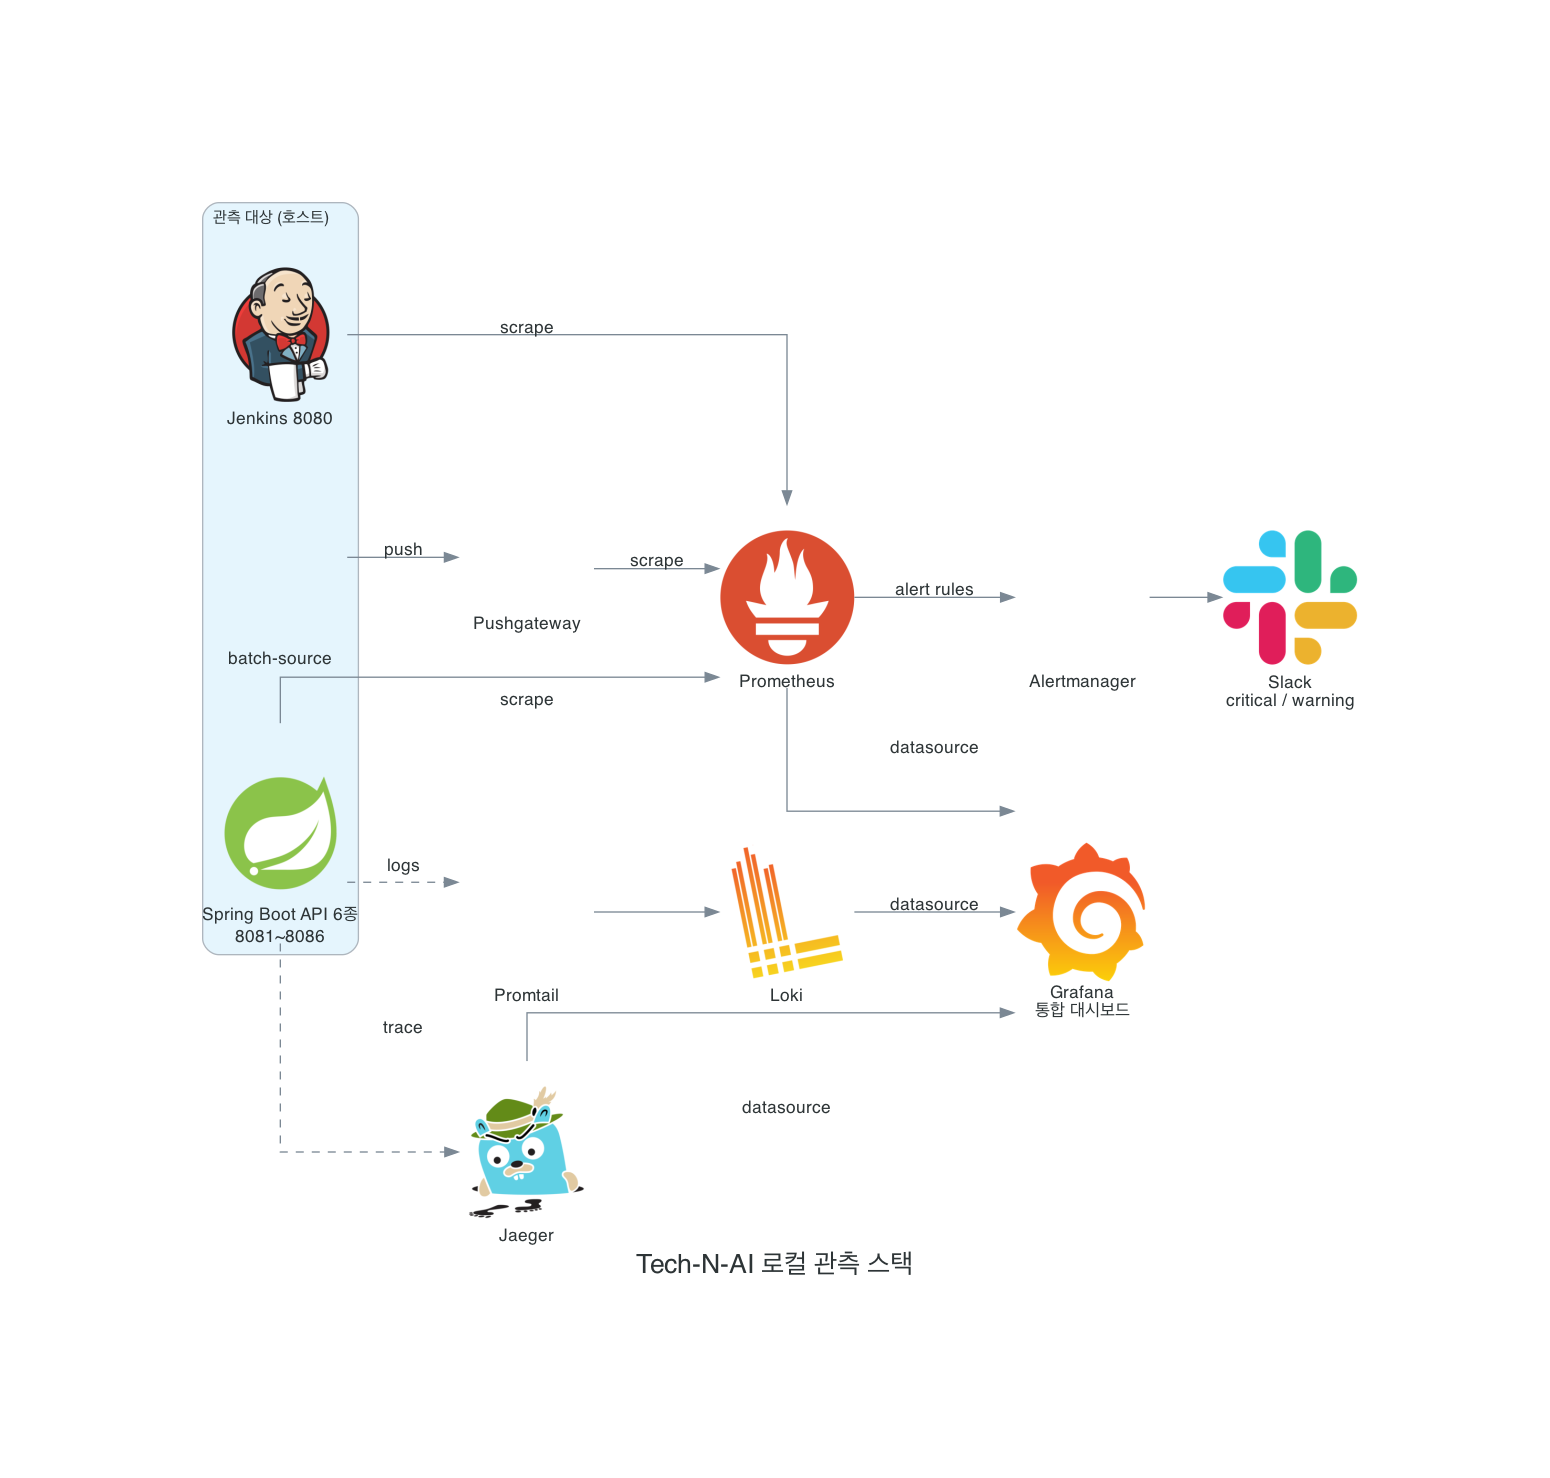
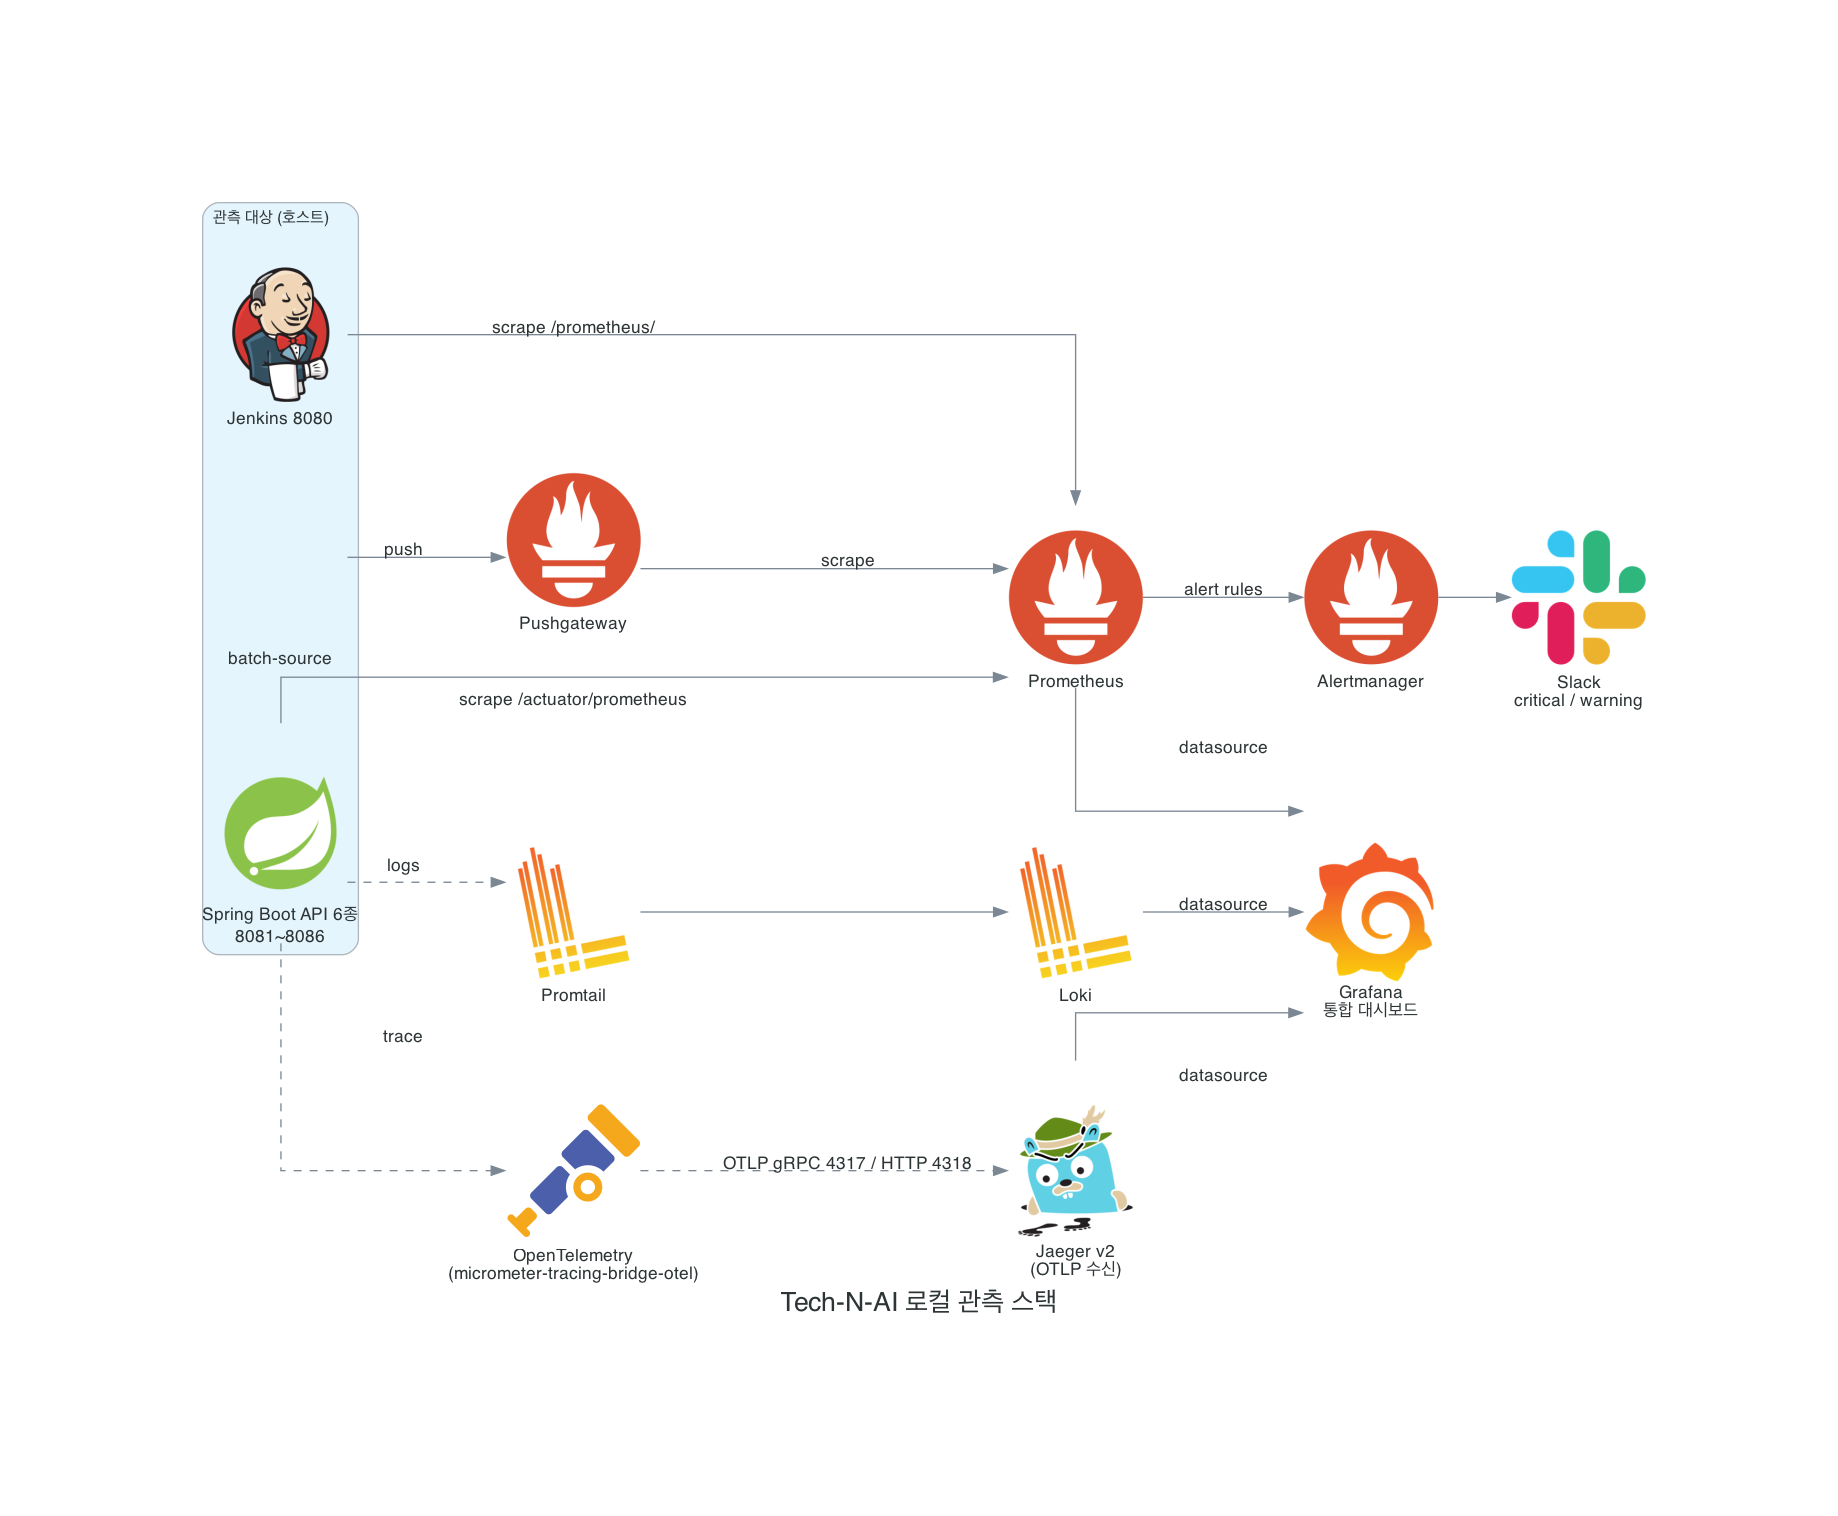
docs : [main] 관측 스택 다이어그램에 OpenTelemetry(OTLP) 트레이스 경로·로고 정리 반영
- observability_stack.py: 트레이스 경로를 OpenTelemetry → Jaeger v2(OTLP)로 바꾸고
  scrape 엔드포인트(/actuator/prometheus, /prometheus/) 라벨 표기
- observability_stack.py: 독립 로고 없는 Pushgateway·Alertmanager·Promtail을
  상위 제품(Prometheus·Loki) 로고로 표시하도록 원칙 정리, OTel 공식 로고 추가
- README: 세 신호 중 트레이스만 OTLP를 쓰는 이유와 신호별 수집 경로 표 추가
- observability_stack.png 재생성, OTel 아이콘 에셋 추가

diff --git a/docs/monitoring/observability_stack.py b/docs/monitoring/observability_stack.py
@@ -3,9 +3,12 @@
 생성:  python observability_stack.py  ->  observability_stack.png
 사전:  pip install diagrams  +  시스템에 Graphviz(`dot`) 설치
 
-전용 로고 노드가 있는 컴포넌트(Prometheus·Grafana·Loki·Jaeger·Jenkins)는 로고로,
-전용 노드가 없는 컴포넌트(Pushgateway·Alertmanager·Promtail·batch-source)는
-로고 없는 Blank 노드에 라벨만 달아 표현한다.
+로고 사용 원칙:
+- 전용 공식 로고가 있는 컴포넌트(Prometheus·Grafana·Loki·Jaeger·Jenkins·Slack)는 해당 로고.
+- OpenTelemetry는 diagrams 내장 노드가 없어 공식 로고 PNG를 Custom 노드로 사용.
+- Pushgateway·Alertmanager는 독립 로고가 없는 Prometheus 컴포넌트라 Prometheus 로고를 공유한다.
+- Promtail은 독립 로고가 없는 Loki 컴포넌트라 Loki 로고를 공유한다.
+- batch-source는 제품이 아니므로 로고 없는 Blank 노드로 둔다.
 """
 from diagrams import Diagram, Cluster, Edge
 from diagrams.onprem.monitoring import Prometheus, Grafana
@@ -15,6 +18,10 @@ from diagrams.onprem.ci import Jenkins
 from diagrams.programming.framework import Spring
 from diagrams.generic.blank import Blank
 from diagrams.saas.chat import Slack
+from diagrams.custom import Custom
+
+# 공식 OpenTelemetry 로고 (CNCF artwork: projects/opentelemetry/icon/color)
+OTEL_LOGO = "assets/opentelemetry-icon-color.png"
 
 graph_attr = {"fontsize": "20", "bgcolor": "white"}
 
@@ -32,23 +39,25 @@ with Diagram(
 
     # 메트릭 경로
     prom = Prometheus("Prometheus")
-    pushgw = Blank("Pushgateway")
-    alertmgr = Blank("Alertmanager")
+    pushgw = Prometheus("Pushgateway")        # 독립 로고 없음 → Prometheus 로고 공유
+    alertmgr = Prometheus("Alertmanager")     # 독립 로고 없음 → Prometheus 로고 공유
     slack = Slack("Slack\ncritical / warning")
 
-    apis >> Edge(label="scrape") >> prom
-    jenkins >> Edge(label="scrape") >> prom
+    apis >> Edge(label="scrape /actuator/prometheus") >> prom
+    jenkins >> Edge(label="scrape /prometheus/") >> prom
     batch >> Edge(label="push") >> pushgw >> Edge(label="scrape") >> prom
     prom >> Edge(label="alert rules") >> alertmgr >> slack
 
     # 로그 경로
-    promtail = Blank("Promtail")
+    promtail = Loki("Promtail")               # 독립 로고 없음 → Loki 로고 공유
     loki = Loki("Loki")
     apis >> Edge(label="logs", style="dashed") >> promtail >> loki
 
-    # 트레이스 경로
-    jaeger = Jaeger("Jaeger")
-    apis >> Edge(label="trace", style="dashed") >> jaeger
+    # 트레이스 경로 (OpenTelemetry / OTLP)
+    otel = Custom("OpenTelemetry\n(micrometer-tracing-bridge-otel)", OTEL_LOGO)
+    jaeger = Jaeger("Jaeger v2\n(OTLP 수신)")
+    apis >> Edge(label="trace", style="dashed") >> otel
+    otel >> Edge(label="OTLP gRPC 4317 / HTTP 4318", style="dashed") >> jaeger
 
     # Grafana 통합 (데이터소스)
     grafana = Grafana("Grafana\n통합 대시보드")

diff --git a/monitoring/README.md b/monitoring/README.md
@@ -97,6 +97,30 @@ Jaeger 트레이스에서 같은 `traceId`의 로그로 바로 넘어갈 수 있
 > 가져와(Import) `/var/lib/grafana/dashboards`에 두면 자동 인식된다
 > (provider 설정: [`grafana/provisioning/dashboards/dashboards.yml`](grafana/provisioning/dashboards/dashboards.yml)).
 
+### OpenTelemetry는 어디에 쓰나
+
+세 신호 중 **트레이스에만 OpenTelemetry(OTLP)를 쓴다.** 메트릭은 Prometheus, 로그는 Loki의
+기본 경로를 따른다. 즉 "관측을 OTel 하나로 통일"한 게 아니라, 신호마다 가장 잘 맞는 경로를 골랐다.
+
+| 신호 | 앱 쪽 계측·전송 | 수집 | OTel |
+|---|---|---|---|
+| **트레이스** | `io.micrometer:micrometer-tracing-bridge-otel` + `io.opentelemetry:opentelemetry-exporter-otlp` (+ `spring-boot-starter-opentelemetry`), OTLP gRPC `4317` / HTTP `4318`로 전송 | Jaeger v2 — OpenTelemetry Collector 기반 구성([`jaeger/jaeger-config.yml`](jaeger/jaeger-config.yml)의 `receivers.otlp` → `pipelines.traces`) | **사용** |
+| **메트릭** | `io.micrometer:micrometer-registry-prometheus`로 `/actuator/prometheus` 노출 | Prometheus가 scrape | 미사용 |
+| **로그** | JSON 파일에 `traceId`/`spanId` 포함 | Promtail → Loki | 미사용 (단 trace context는 전파) |
+
+메트릭과 로그를 OTel 경로(OTLP 내보내기 / OTel Collector)로 보내지 않은 이유:
+
+- **Jenkins는 OTLP를 못 낸다.** Prometheus 포맷만 `/prometheus/`로 노출하므로 긁어오는(scrape) 방식이 강제된다.
+- **알림 규칙이 Prometheus에 묶여 있다.** [`prometheus/alert-rules.yml`](prometheus/alert-rules.yml)의 식이
+  `up{job="jenkins"}`(타깃 생사), `spring_batch_job_seconds_count`, `jvm_memory_used_bytes` 같은
+  Prometheus 메트릭과 PromQL에 의존한다. 타깃이 살아 있는지 알려주는 `up`은 scrape(pull) 모델에서만 공짜로 생긴다.
+- **batch-source 메트릭은 Pushgateway**(Prometheus 생태계)로 들어온다.
+- 로그는 Loki로 보내되, Promtail이 `traceId`/`spanId`를 structured metadata로 남겨
+  Grafana에서 트레이스↔로그로 바로 넘어갈 수 있게 했다(OTel의 상관관계 이점은 그대로 챙긴다).
+
+> 이 로컬 스택은 신호별 직접 경로를 쓰고 **중앙 OpenTelemetry Collector는 두지 않는다.**
+> 운영(AWS)은 별개로 CloudWatch + X-Ray + Amazon Managed Grafana다(맨 위 머리말 참고).
+
 ---
 
 ## 4. Jenkins
